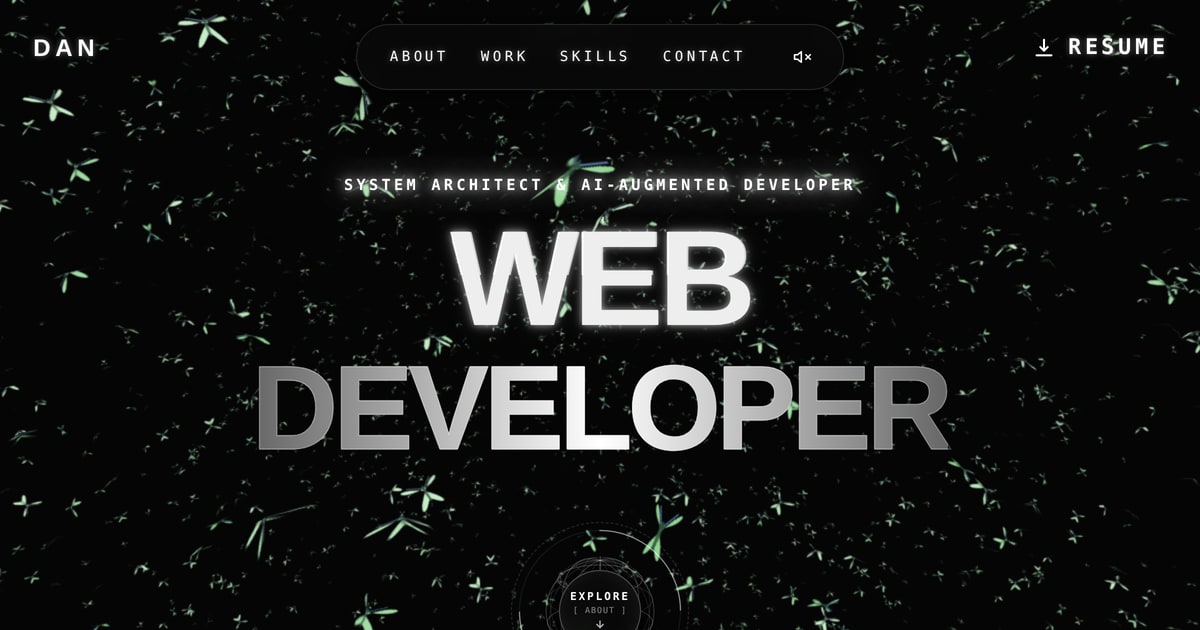
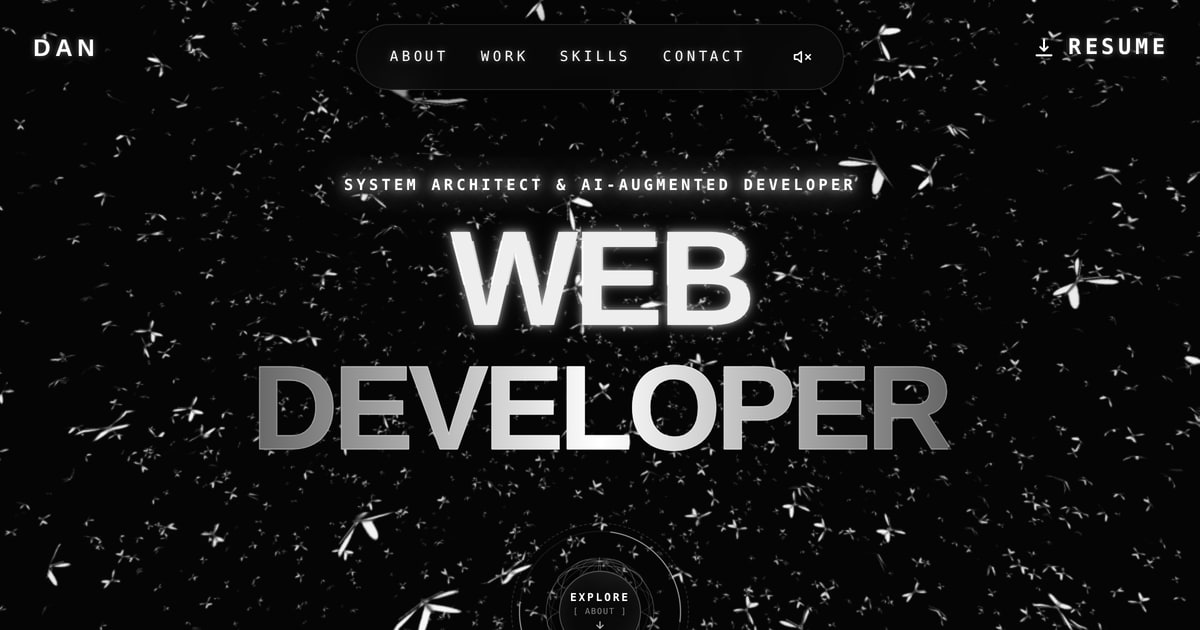
Make the butterfly swarm white
Repaints the wing sprite sheet from green to white, which also sits better
with the site's otherwise monochrome palette.

The four frames keep a spread of whites rather than all being pure white:
each butterfly samples one frame, so a single tone would make the swarm
read as one flat mass against the near-black page.

Veins move from blue to grey, and the body keeps a dark, now neutral, tone
so the silhouette still reads against the white wings.

Social preview regenerated from the new hero.

Claude-Session: https://claude.ai/code/session_01Uv8rVAj2wuqoYoFQCsW4Ho

diff --git a/src/components/Butterflies.jsx b/src/components/Butterflies.jsx
@@ -20,14 +20,15 @@ function makeButterfliesTexture() {
     // How far the wings are spread in this frame, cycling across the sheet.
     const open = 0.4 + 0.55 * Math.abs(Math.sin((f / FRAMES) * Math.PI));
 
-    // Green wings with lifted-blue veins. A pure dark blue would not register
-    // against the near-black page, so the veins use the lightened step while
-    // the swarm reads green overall.
+    // White wings with grey veins. Each butterfly samples one frame of the
+    // sheet, so spreading the whites across the four keeps the swarm from
+    // reading as one flat tone against the near-black page while every
+    // individual still reads as white.
     const palette = [
-      ['rgba(76,175,80,0.98)', 'rgba(45,95,224,0.9)'],
-      ['rgba(127,211,130,0.98)', 'rgba(60,120,240,0.9)'],
-      ['rgba(96,190,100,0.98)', 'rgba(45,95,224,0.9)'],
-      ['rgba(150,225,152,0.98)', 'rgba(90,150,245,0.9)'],
+      ['rgba(255,255,255,0.98)', 'rgba(214,214,214,0.9)'],
+      ['rgba(236,236,236,0.98)', 'rgba(198,198,198,0.9)'],
+      ['rgba(248,248,248,0.98)', 'rgba(206,206,206,0.9)'],
+      ['rgba(224,224,224,0.98)', 'rgba(188,188,188,0.9)'],
     ];
     const [fill, vein] = palette[f];
 
@@ -65,7 +66,8 @@ function makeButterfliesTexture() {
     // Body and head
     ctx.beginPath();
     ctx.ellipse(cx, cy + 5, 2.5, 20, 0, 0, Math.PI * 2);
-    ctx.fillStyle = 'rgba(6,20,10,0.92)';
+    // Kept dark so the silhouette still reads against the white wings.
+    ctx.fillStyle = 'rgba(10,10,10,0.92)';
     ctx.fill();
     ctx.beginPath();
     ctx.arc(cx, cy - 8, 3.5, 0, Math.PI * 2);
